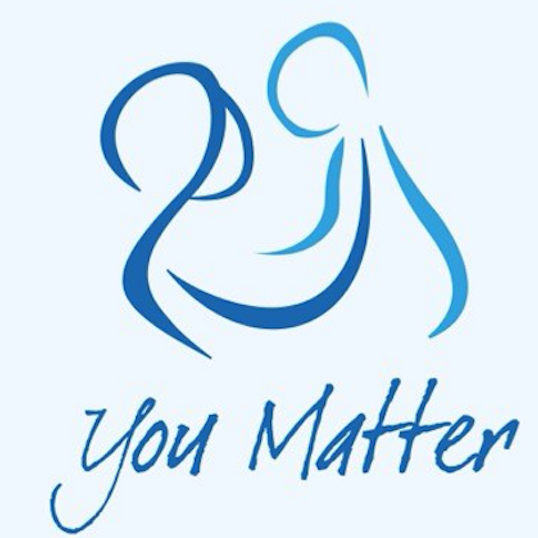
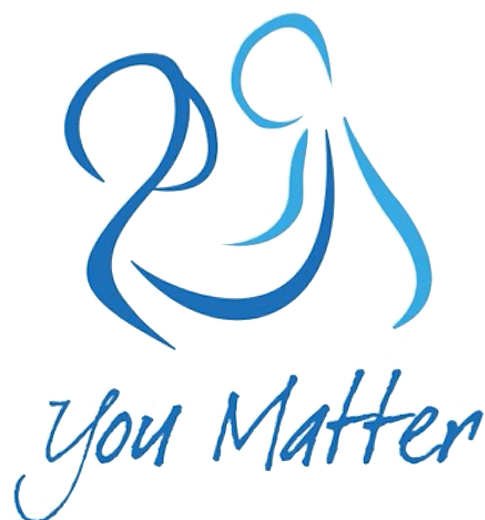
tweak of colours

Changed region(s): [[0.1237, 0.0, 0.8969, 0.6769], [0.433, 0.6769, 1.0, 0.9231], [0.0309, 0.7385, 0.433, 1.0]]

diff --git a/_includes/css/main.css b/_includes/css/main.css
@@ -361,9 +361,8 @@ nav ul li:hover, nav ul li.active {
 .circular {
 	width: 300px;
 	height: 300px;
-	border-radius: 150px;
-	-webkit-border-radius: 150px;
-	-moz-border-radius: 150px;
-	background: url(img/youmatter-icon.png) no-repeat;
 	margin:auto
 	}
+.circular--square {
+  border-radius: 50%;
+}

diff --git a/_posts/2000-01-01-about.md b/_posts/2000-01-01-about.md
@@ -1,16 +1,14 @@
 ---
 title: "About"
-bg: white  #defined in _config.yml, can use html color like '#0fbfcf'
+bg: bluebg  #defined in _config.yml, can use html color like '#0fbfcf'
 color: black   #text color
 ---
 
 ### AAC Training for Education and Families
 {: .text-blue}
 
-<div class="circular"><img src="img/youmatter-icon.png" alt="" /></div>
+<div class="circular"><img src="img/youmatter-icon.png" alt=""/></div>
 
-# You Matter
-{: .text-blue}
 
 You Matter is a set of two training courses that are designed to support and empower those around children who are using aided communication (Augmentative and Alternative Communication).  
 

diff --git a/_posts/2000-01-02-education-edition.md b/_posts/2000-01-02-education-edition.md
@@ -1,6 +1,6 @@
 ---
 title: "Education Edition"
-bg: yellow  #defined in _config.yml, can use html color like '#0fbfcf'
+bg: blue4  #defined in _config.yml, can use html color like '#0fbfcf'
 color: black   #text color
 fa-icon: graduation-cap
 ---

diff --git a/_posts/2000-01-04-purchase.md b/_posts/2000-01-04-purchase.md
@@ -1,6 +1,6 @@
 ---
 title: "Purchase"
-bg: blue4  #defined in _config.yml, can use html color like '#0fbfcf'
+bg: yellow  #defined in _config.yml, can use html color like '#0fbfcf'
 color: white   #text color
 fa-icon: shopping-cart
 ---

diff --git a/_posts/2000-01-05-reviews.md b/_posts/2000-01-05-reviews.md
@@ -1,6 +1,6 @@
 ---
 title: "Reviews"
-bg: blue3  #defined in _config.yml, can use html color like '#0fbfcf'
+bg: blue1  #defined in _config.yml, can use html color like '#0fbfcf'
 color: white   #text color
 fa-icon: comments
 ---
